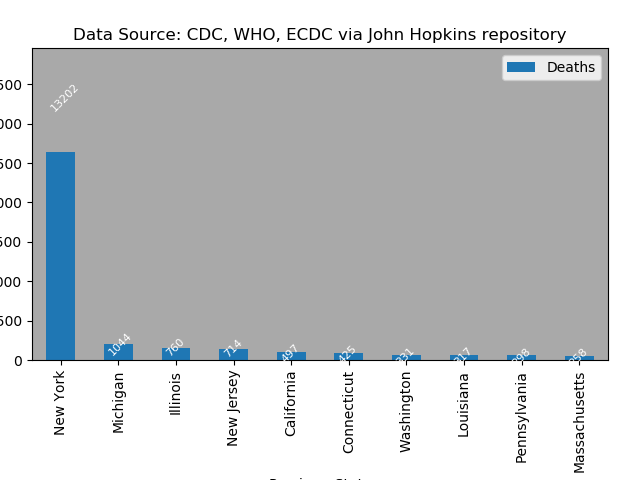
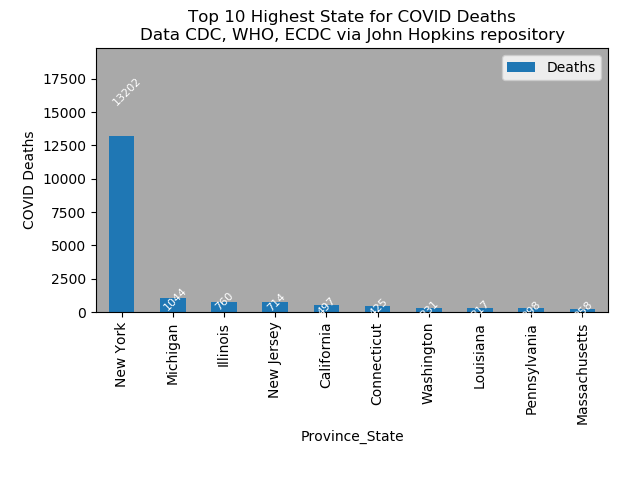
added test line for adding a table to the plot in the future

Changed region(s): [[0.0, 0.0, 0.9688, 1.0], [0.0625, 0.7812, 0.125, 0.9062], [0.1875, 0.1562, 0.2188, 0.2188]]

diff --git a/pandas/COVID_analysis/v2_COVID_analysis.py b/pandas/COVID_analysis/v2_COVID_analysis.py
@@ -87,12 +87,13 @@ us_max_deaths_df = pd.concat(max_list).sort_values(by=['Deaths'],ascending=False
 us_max_deaths_df.index+=1
 print(us_max_deaths_df.head(10))
 fig1,ax1 = plt.subplots()
-subplot1 = us_max_deaths_df.head(10).plot(ax=ax1,x='Province_State',y='Deaths',kind='bar',title='Data Source: CDC, WHO, ECDC via John Hopkins repository')
+subplot1 = us_max_deaths_df.head(10).plot(ax=ax1,x='Province_State',y='Deaths',kind='bar',title='Top 10 Highest State for COVID Deaths\nData CDC, WHO, ECDC via John Hopkins repository')
 ax1.set_ylabel('COVID Deaths')
 ax1.set_ylim(0,us_max_deaths_df['Deaths'].values[0]*1.5)
 add_annotation_to_vertical_graph([subplot1])
 fig1.canvas.set_window_title('Top 10 States w/ Highest COVID Deaths')
-fig1.subplots_adjust(.05,.25,.95,.90)
+fig1.subplots_adjust(.15,.35,.95,.90)
+#plt.table(cellText=us_max_deaths_df.loc['Province_State','Deaths'],colWidths=0.25,rowLabels=us_max_deaths_df['Province_State'].values,colLabels=['Deaths'],cellLoc = 'center', rowLoc = 'center', loc = 'bottom')
 fig1.savefig("v2_output_plot.png")
 print(us_max_deaths_df.tail(10))
 plt.show()
